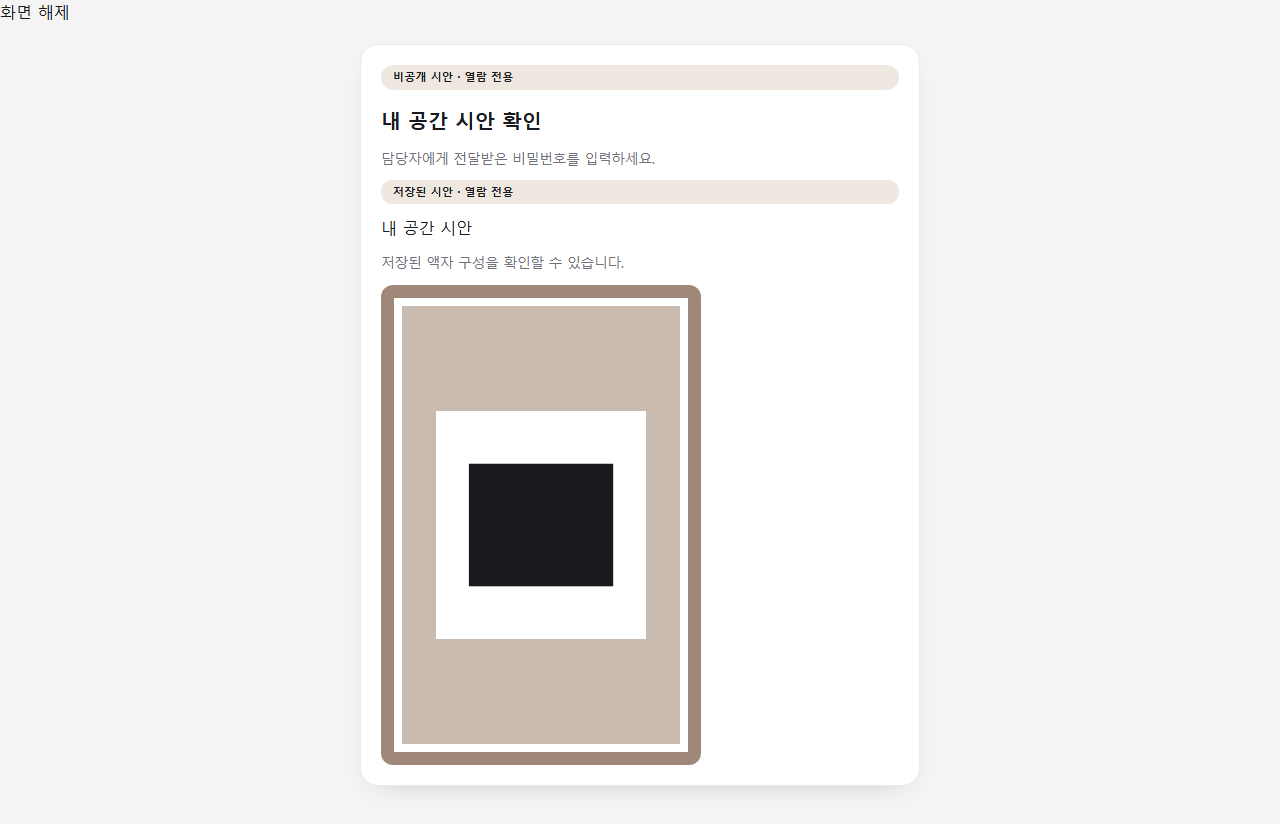
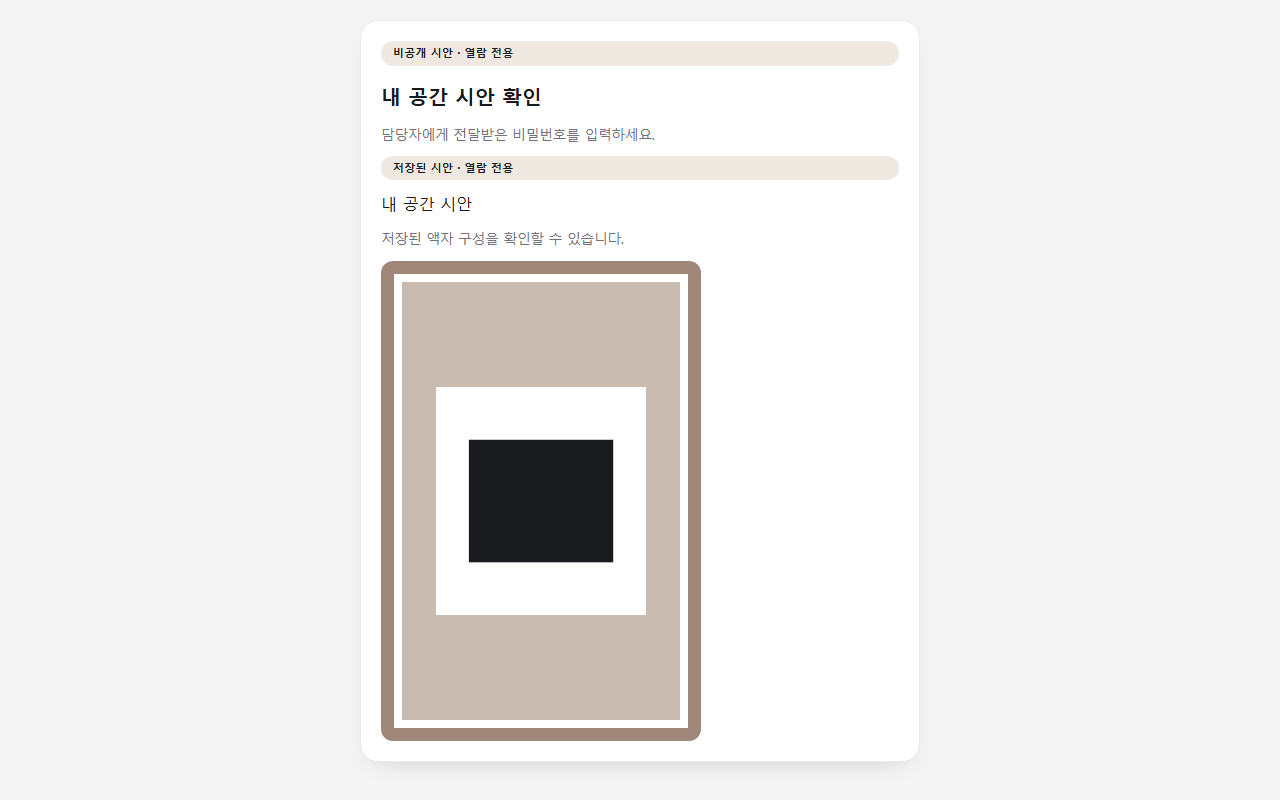
spec 080 correction 1: real password form and clean screenshot evidence
Defect 1 — the gate was not a form, so "keyboard form submit" was unproven.
The password field and its button now sit in a semantic <form onSubmit>, the
button is an explicit type="submit" with no onClick, and onSubmit calls
preventDefault before running the existing submit exactly once. Layout, copy,
the immediate password clear and the single-flight contract are unchanged
(the form carries denn-stack, so the 12px rhythm is identical). Unit tests pin
the form/type=submit structure; the E2E now fills the password input and
presses Enter IN that input, and asserts documentReads 1, proofReads 1,
decodes 1, an unchanged URL (preventDefault held) and the ready canvas.

Defect 2 — both spec-080 PNGs showed the synthetic fixture's own "화면 해제"
control. The screenshot cases now hide [data-testid="fixture-unmount"] in the
page immediately before capture; the fixture source is untouched. Both PNGs
were regenerated and reviewed: the control is gone and only the customer
surface remains.

Verified: full node scripts/check.mjs PASS (unit 2281/2281), targeted Chromium
space-production-route.spec.ts 14/14 PASS. Customer entry index-nLbiXJi7.js /
340,481 B -> index-BUT7Bmak.js / 340,604 B (+123 B for the form wrapper);
customer CSS, admin entry and admin CSS are byte-identical. git diff --check
PASS, no forbidden diff, ports clear. Full Chromium suite still NOT RUN.

Claude-Session: https://claude.ai/code/session_01NkKMJ2fSEvYKk7ch66tvMN

diff --git a/tests/e2e/space-production-route.spec.ts b/tests/e2e/space-production-route.spec.ts
@@ -292,10 +292,14 @@ const external = (probe: RouteProbe): string[] =>
 
 const v2Url = (mode: string): string => `${FIXTURE_URL}?mode=${mode}`;
 
+/**
+ * A real keyboard form submit: Enter is pressed IN the password field, so it is the browser's
+ * implicit submission that runs — not a click, and not Enter on an already-focused button.
+ */
 async function authenticateWith(page: Page, password: string): Promise<void> {
-  await page.getByTestId("space-password").fill(password);
-  // A real keyboard submit, not a synthetic click.
-  await page.getByTestId("space-submit").press("Enter");
+  const field = page.getByTestId("space-password");
+  await field.fill(password);
+  await field.press("Enter");
 }
 
 test("the V2 route renders the saved proof on a real canvas with zero external traffic", async ({
@@ -312,6 +316,12 @@ test("the V2 route renders the saved proof on a real canvas with zero external t
     proofReads: 0,
     decodes: 0,
   });
+
+  // The password field really is inside the form, and the button really is its submit control.
+  const form = page.getByTestId("space-password-form");
+  await expect(form).toBeVisible();
+  await expect(form.getByTestId("space-password")).toHaveCount(1);
+  await expect(form.getByTestId("space-submit")).toHaveAttribute("type", "submit");
 
   await authenticateWith(page, "SYNTHETIC_PASSWORD");
   const view = page.getByTestId("space-v2-proof-view");
@@ -335,6 +345,11 @@ test("the V2 route renders the saved proof on a real canvas with zero external t
   await expect(page.getByTestId("space-frame-view")).toHaveCount(0);
 
   expect(external(probe)).toEqual([]);
+  // preventDefault held: the form neither navigated nor put the password in the query string.
+  expect(page.url()).toBe(v2Url("v2"));
+  // One keyboard submit means exactly one read and exactly one byte download — not two.
+  // (`controllerFactories` is deliberately not asserted: StrictMode's development double-render
+  // calls the memoised factory twice, which is a harness artefact, not a product request.)
   expect(await page.evaluate(() => window.__DENN_SPACE_PRODUCTION_ROUTE_FIXTURE__)).toMatchObject({
     documentReads: 1,
     sceneOpens: 0,
@@ -467,6 +482,10 @@ test("unmounting the V2 route leaves no canvas and starts no deferred work", asy
 });
 
 // --- spec 080 representative screenshots (synthetic fixture only) -----------
+//
+// The fixture's own "화면 해제" control is harness scaffolding, not product UI. It is hidden in the
+// page (never in the fixture source) immediately before the capture, so the recorded design
+// evidence shows the customer surface and nothing else.
 for (const shot of SHOTS) {
   test(`spec080 screenshot ${shot.name}`, async ({ page }) => {
     await installProbe(page);
@@ -476,6 +495,14 @@ for (const shot of SHOTS) {
     await expect(page.getByTestId("preview-canvas")).toBeVisible();
     await settle(page);
     await expect(page.getByTestId("canvas-status")).toHaveText("미리보기가 준비되었습니다.");
+
+    await page.evaluate(() => {
+      const control = document.querySelector('[data-testid="fixture-unmount"]');
+      if (control instanceof HTMLElement) control.style.display = "none";
+    });
+    await expect(page.getByTestId("fixture-unmount")).toBeHidden();
+    await settle(page);
+
     await page.screenshot({
       path: `docs/rebuild/results/spec-080/space-v2-viewer-${shot.name}.png`,
       fullPage: true,

diff --git a/apps/mockup/src/space/SpacePasswordGate.tsx b/apps/mockup/src/space/SpacePasswordGate.tsx
@@ -1,5 +1,6 @@
 import { Badge, Button, Card, TextField } from "@denn/ui";
 import {
+  type FormEvent,
   type ReactNode,
   useCallback,
   useEffect,
@@ -61,6 +62,15 @@ export function SpacePasswordGate({
     controller.submitPassword(attempt);
   }, [controller, password]);
 
+  const onSubmit = useCallback(
+    (event: FormEvent<HTMLFormElement>) => {
+      // No navigation, no query string: the password must never reach the URL.
+      event.preventDefault();
+      submit();
+    },
+    [submit],
+  );
+
   const renderReadyBody = (ready: Extract<SpaceGateSnapshot, { status: "ready" }>): ReactNode => {
     if ("v2" in ready) {
       return renderReadyV2 === undefined ? pendingNotice : renderReadyV2(ready.v2);
@@ -82,7 +92,10 @@ export function SpacePasswordGate({
             <p>담당자에게 전달받은 비밀번호를 입력하세요.</p>
 
             {canSubmit ? (
-              <>
+              // A real form: Enter in the password field submits it, exactly as a browser user
+              // expects. `denn-stack` keeps the same 12px rhythm the two controls had as direct
+              // children of the card stack, so the layout is unchanged.
+              <form className="denn-stack" onSubmit={onSubmit} data-testid="space-password-form">
                 <TextField
                   label="비밀번호"
                   type="password"
@@ -91,10 +104,11 @@ export function SpacePasswordGate({
                   data-testid="space-password"
                   onChange={(event) => setPassword(event.target.value)}
                 />
-                <Button variant="primary" onClick={submit} data-testid="space-submit">
+                {/* type="submit" only — an onClick here would run the submit twice. */}
+                <Button variant="primary" type="submit" data-testid="space-submit">
                   시안 보기
                 </Button>
-              </>
+              </form>
             ) : null}
 
             {snapshot.status === "loading" ? (

diff --git a/apps/mockup/src/space/SpacePasswordGate.test.tsx b/apps/mockup/src/space/SpacePasswordGate.test.tsx
@@ -218,4 +218,45 @@ describe("SpacePasswordGate", () => {
     expect(html).toContain('type="password"');
     expect(html).toContain("시안 보기");
   });
+
+  it("submits through a real form whose button is the submit control", () => {
+    const html = renderToStaticMarkup(
+      <SpacePasswordGate
+        controller={new SpaceLinkOpenController("?space=private-token", reader, opener)}
+      />,
+    );
+    expect(html).toContain('data-testid="space-password-form"');
+    expect(html).toMatch(/<form[^>]*data-testid="space-password-form"/);
+    // Enter in the field must submit the form, so the only button inside it is type="submit".
+    expect(html).toMatch(/<button type="submit"[^>]*data-testid="space-submit"/);
+    expect(html).not.toMatch(/<button type="button"[^>]*data-testid="space-submit"/);
+    // The password input lives INSIDE that form; otherwise implicit submission cannot work.
+    const form = html.slice(html.indexOf("<form"), html.indexOf("</form>"));
+    expect(form).toContain('type="password"');
+    expect(form).toContain('data-testid="space-submit"');
+  });
+
+  it("renders no form at all when there is nothing to submit", () => {
+    const html = renderToStaticMarkup(
+      <SpacePasswordGate
+        controller={pinned({
+          status: "error",
+          requestId: 1,
+          code: "SPACE_V2_VIEW_UNAVAILABLE",
+          retryable: false,
+        })}
+      />,
+    );
+    expect(html).not.toContain("<form");
+    expect(html).not.toContain('data-testid="space-submit"');
+  });
+
+  it("keeps the card layout rhythm when the controls move into the form", () => {
+    const html = renderToStaticMarkup(
+      <SpacePasswordGate
+        controller={new SpaceLinkOpenController("?space=private-token", reader, opener)}
+      />,
+    );
+    expect(html).toMatch(/<form class="denn-stack"/);
+  });
 });
